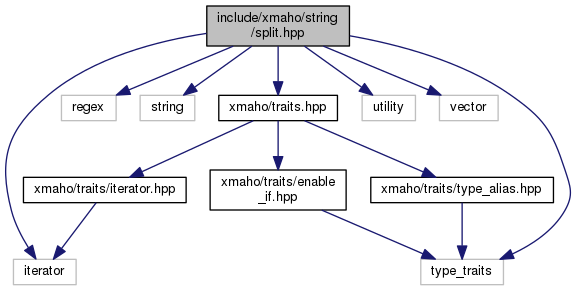
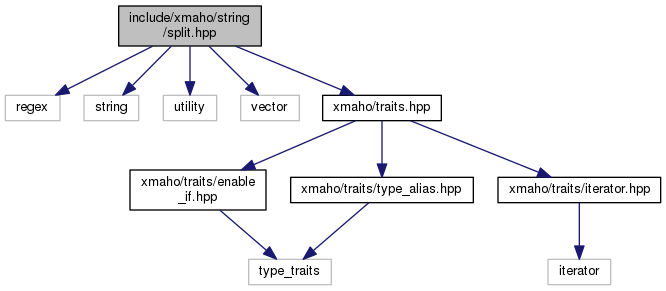
Update doxgen

diff --git a/docs/split_8hpp_source.html b/docs/split_8hpp_source.html
@@ -87,8 +87,8 @@ var searchBox = new SearchBox("searchBox", "search",false,'Search');
 <div class="title">split.hpp</div>  </div>
 </div><!--header-->
 <div class="contents">
-<a href="split_8hpp.html">Go to the documentation of this file.</a><div class="fragment"><div class="line"><a name="l00001"></a><span class="lineno">    1</span>&#160;<span class="preprocessor">#ifndef XMAHO_XMAHO_STRING_SPLIT_H</span></div><div class="line"><a name="l00002"></a><span class="lineno">    2</span>&#160;<span class="preprocessor">#define XMAHO_XMAHO_STRING_SPLIT_H</span></div><div class="line"><a name="l00003"></a><span class="lineno">    3</span>&#160;</div><div class="line"><a name="l00009"></a><span class="lineno">    9</span>&#160;<span class="preprocessor">#include &lt;iterator&gt;</span></div><div class="line"><a name="l00010"></a><span class="lineno">   10</span>&#160;<span class="preprocessor">#include &lt;regex&gt;</span></div><div class="line"><a name="l00011"></a><span class="lineno">   11</span>&#160;<span class="preprocessor">#include &lt;string&gt;</span></div><div class="line"><a name="l00012"></a><span class="lineno">   12</span>&#160;<span class="preprocessor">#include &lt;type_traits&gt;</span></div><div class="line"><a name="l00013"></a><span class="lineno">   13</span>&#160;<span class="preprocessor">#include &lt;utility&gt;</span></div><div class="line"><a name="l00014"></a><span class="lineno">   14</span>&#160;<span class="preprocessor">#include &lt;vector&gt;</span></div><div class="line"><a name="l00015"></a><span class="lineno">   15</span>&#160;</div><div class="line"><a name="l00016"></a><span class="lineno">   16</span>&#160;<span class="preprocessor">#include &quot;<a class="code" href="traits_8hpp.html">xmaho/traits.hpp</a>&quot;</span></div><div class="line"><a name="l00017"></a><span class="lineno">   17</span>&#160;</div><div class="line"><a name="l00018"></a><span class="lineno">   18</span>&#160;<span class="keyword">namespace </span><a class="code" href="namespacexmaho.html">xmaho</a></div><div class="line"><a name="l00019"></a><span class="lineno">   19</span>&#160;{</div><div class="line"><a name="l00020"></a><span class="lineno"><a class="line" href="namespacexmaho_1_1string.html">   20</a></span>&#160;<span class="keyword">namespace </span>string</div><div class="line"><a name="l00021"></a><span class="lineno">   21</span>&#160;{</div><div class="line"><a name="l00022"></a><span class="lineno">   22</span>&#160;</div><div class="line"><a name="l00029"></a><span class="lineno">   29</span>&#160;<span class="keyword">template</span>&lt;<span class="keyword">typename</span> B<span class="keywordtype">id</span>irIter, <span class="keyword">typename</span> Delimiter&gt;</div><div class="line"><a name="l00030"></a><span class="lineno">   30</span>&#160;<span class="keyword">inline</span> std::vector&lt;std::basic_string&lt;traits::remove_const_t&lt;typename std::iterator_traits&lt;BidirIter&gt;::value_type&gt;&gt;&gt;</div><div class="line"><a name="l00031"></a><span class="lineno"><a class="line" href="namespacexmaho_1_1string.html#afb53b8d73cb4abf58db54a818472beb2">   31</a></span>&#160;<a class="code" href="namespacexmaho_1_1string.html#afb53b8d73cb4abf58db54a818472beb2">split</a>(BidirIter&amp;&amp; first, BidirIter&amp;&amp; last, Delimiter&amp;&amp; delimiter)</div><div class="line"><a name="l00032"></a><span class="lineno">   32</span>&#160;{</div><div class="line"><a name="l00033"></a><span class="lineno">   33</span>&#160;  <span class="keyword">using</span> Regex = std::basic_regex&lt;typename std::iterator_traits&lt;BidirIter&gt;::value_type&gt;;</div><div class="line"><a name="l00034"></a><span class="lineno">   34</span>&#160;  <span class="keyword">using</span> TokenIter = std::regex_token_iterator&lt;BidirIter&gt;;</div><div class="line"><a name="l00035"></a><span class="lineno">   35</span>&#160;</div><div class="line"><a name="l00036"></a><span class="lineno">   36</span>&#160;  Regex delim {std::forward&lt;Delimiter&gt;(delimiter)};</div><div class="line"><a name="l00037"></a><span class="lineno">   37</span>&#160;  <span class="keywordflow">return</span> {TokenIter{std::forward&lt;BidirIter&gt;(first), std::forward&lt;BidirIter&gt;(last), delim, -1}, TokenIter{}};</div><div class="line"><a name="l00038"></a><span class="lineno">   38</span>&#160;}</div><div class="line"><a name="l00039"></a><span class="lineno">   39</span>&#160;</div><div class="line"><a name="l00046"></a><span class="lineno">   46</span>&#160;<span class="keyword">template</span>&lt;<span class="keyword">typename</span> String, <span class="keyword">typename</span> Delimiter&gt;</div><div class="line"><a name="l00047"></a><span class="lineno"><a class="line" href="namespacexmaho_1_1string.html#abad9393e4bf4a5ba4192192adbff0618">   47</a></span>&#160;<span class="keyword">inline</span> std::vector&lt;String&gt; <a class="code" href="namespacexmaho_1_1string.html#afb53b8d73cb4abf58db54a818472beb2">split</a>(<span class="keyword">const</span> String&amp; target, Delimiter&amp;&amp; delimiter)</div><div class="line"><a name="l00048"></a><span class="lineno">   48</span>&#160;{</div><div class="line"><a name="l00049"></a><span class="lineno">   49</span>&#160;  <span class="keywordflow">return</span> <a class="code" href="namespacexmaho_1_1string.html#afb53b8d73cb4abf58db54a818472beb2">split</a>(target.cbegin(), target.cend(), std::forward&lt;Delimiter&gt;(delimiter));</div><div class="line"><a name="l00050"></a><span class="lineno">   50</span>&#160;}</div><div class="line"><a name="l00051"></a><span class="lineno">   51</span>&#160;</div><div class="line"><a name="l00058"></a><span class="lineno">   58</span>&#160;<span class="keyword">template</span>&lt;<span class="keyword">typename</span> CharT, <span class="keywordtype">size_t</span> N, <span class="keyword">typename</span> Delimiter&gt;</div><div class="line"><a name="l00059"></a><span class="lineno"><a class="line" href="namespacexmaho_1_1string.html#a26c65b50096256f29b93790659cc6674">   59</a></span>&#160;<span class="keyword">inline</span> std::vector&lt;typename std::basic_string&lt;CharT&gt;&gt; <a class="code" href="namespacexmaho_1_1string.html#afb53b8d73cb4abf58db54a818472beb2">split</a>(<span class="keyword">const</span> CharT (&amp;target)[N], Delimiter&amp;&amp; delimiter)</div><div class="line"><a name="l00060"></a><span class="lineno">   60</span>&#160;{</div><div class="line"><a name="l00061"></a><span class="lineno">   61</span>&#160;  <span class="keywordflow">return</span> <a class="code" href="namespacexmaho_1_1string.html#afb53b8d73cb4abf58db54a818472beb2">split</a>(target, target + N, std::forward&lt;Delimiter&gt;(delimiter));</div><div class="line"><a name="l00062"></a><span class="lineno">   62</span>&#160;}</div><div class="line"><a name="l00063"></a><span class="lineno">   63</span>&#160;</div><div class="line"><a name="l00070"></a><span class="lineno">   70</span>&#160;<span class="keyword">template</span>&lt;<span class="keyword">typename</span> CharT, <span class="keyword">typename</span> Delimiter&gt;</div><div class="line"><a name="l00071"></a><span class="lineno"><a class="line" href="namespacexmaho_1_1string.html#a6355bb4636212ecf41cec4d1f96ed57e">   71</a></span>&#160;<span class="keyword">inline</span> std::vector&lt;typename std::basic_string&lt;CharT&gt;&gt; <a class="code" href="namespacexmaho_1_1string.html#afb53b8d73cb4abf58db54a818472beb2">split</a>(<span class="keyword">const</span> CharT* target, Delimiter&amp;&amp; delimiter)</div><div class="line"><a name="l00072"></a><span class="lineno">   72</span>&#160;{</div><div class="line"><a name="l00073"></a><span class="lineno">   73</span>&#160;  <span class="keywordflow">return</span> <a class="code" href="namespacexmaho_1_1string.html#afb53b8d73cb4abf58db54a818472beb2">split</a>(<span class="keyword">typename</span> std::basic_string&lt;CharT&gt; {target}, std::forward&lt;Delimiter&gt;(delimiter));</div><div class="line"><a name="l00074"></a><span class="lineno">   74</span>&#160;}</div><div class="line"><a name="l00075"></a><span class="lineno">   75</span>&#160;</div><div class="line"><a name="l00076"></a><span class="lineno">   76</span>&#160;}</div><div class="line"><a name="l00077"></a><span class="lineno">   77</span>&#160;}</div><div class="line"><a name="l00078"></a><span class="lineno">   78</span>&#160;</div><div class="line"><a name="l00079"></a><span class="lineno">   79</span>&#160;<span class="preprocessor">#endif</span></div><div class="ttc" id="traits_8hpp_html"><div class="ttname"><a href="traits_8hpp.html">traits.hpp</a></div><div class="ttdoc">This call xmaho::traits libraries. </div></div>
-<div class="ttc" id="namespacexmaho_1_1string_html_afb53b8d73cb4abf58db54a818472beb2"><div class="ttname"><a href="namespacexmaho_1_1string.html#afb53b8d73cb4abf58db54a818472beb2">xmaho::string::split</a></div><div class="ttdeci">std::vector&lt; std::basic_string&lt; traits::remove_const_t&lt; typename std::iterator_traits&lt; BidirIter &gt;::value_type &gt; &gt; &gt; split(BidirIter &amp;&amp;first, BidirIter &amp;&amp;last, Delimiter &amp;&amp;delimiter)</div><div class="ttdoc">split string by regex. </div><div class="ttdef"><b>Definition:</b> split.hpp:31</div></div>
+<a href="split_8hpp.html">Go to the documentation of this file.</a><div class="fragment"><div class="line"><a name="l00001"></a><span class="lineno">    1</span>&#160;<span class="preprocessor">#ifndef XMAHO_XMAHO_STRING_SPLIT_H</span></div><div class="line"><a name="l00002"></a><span class="lineno">    2</span>&#160;<span class="preprocessor">#define XMAHO_XMAHO_STRING_SPLIT_H</span></div><div class="line"><a name="l00003"></a><span class="lineno">    3</span>&#160;</div><div class="line"><a name="l00009"></a><span class="lineno">    9</span>&#160;<span class="preprocessor">#include &lt;regex&gt;</span></div><div class="line"><a name="l00010"></a><span class="lineno">   10</span>&#160;<span class="preprocessor">#include &lt;string&gt;</span></div><div class="line"><a name="l00011"></a><span class="lineno">   11</span>&#160;<span class="preprocessor">#include &lt;utility&gt;</span></div><div class="line"><a name="l00012"></a><span class="lineno">   12</span>&#160;<span class="preprocessor">#include &lt;vector&gt;</span></div><div class="line"><a name="l00013"></a><span class="lineno">   13</span>&#160;</div><div class="line"><a name="l00014"></a><span class="lineno">   14</span>&#160;<span class="preprocessor">#include &quot;<a class="code" href="traits_8hpp.html">xmaho/traits.hpp</a>&quot;</span></div><div class="line"><a name="l00015"></a><span class="lineno">   15</span>&#160;</div><div class="line"><a name="l00016"></a><span class="lineno">   16</span>&#160;<span class="keyword">namespace </span><a class="code" href="namespacexmaho.html">xmaho</a></div><div class="line"><a name="l00017"></a><span class="lineno">   17</span>&#160;{</div><div class="line"><a name="l00018"></a><span class="lineno"><a class="line" href="namespacexmaho_1_1string.html">   18</a></span>&#160;<span class="keyword">namespace </span>string</div><div class="line"><a name="l00019"></a><span class="lineno">   19</span>&#160;{</div><div class="line"><a name="l00020"></a><span class="lineno">   20</span>&#160;</div><div class="line"><a name="l00027"></a><span class="lineno">   27</span>&#160;<span class="keyword">template</span>&lt;<span class="keyword">typename</span> B<span class="keywordtype">id</span>irIter, <span class="keyword">typename</span> Delimiter&gt;</div><div class="line"><a name="l00028"></a><span class="lineno">   28</span>&#160;<span class="keyword">inline</span> std::vector&lt;std::basic_string&lt;traits::remove_const_t&lt;traits::Value_type&lt;BidirIter&gt;&gt;&gt;&gt;</div><div class="line"><a name="l00029"></a><span class="lineno"><a class="line" href="namespacexmaho_1_1string.html#a841fcc4bd72c2c85af7be68feecaefe2">   29</a></span>&#160;<a class="code" href="namespacexmaho_1_1string.html#a841fcc4bd72c2c85af7be68feecaefe2">split</a>(BidirIter&amp;&amp; first, BidirIter&amp;&amp; last, Delimiter&amp;&amp; delimiter)</div><div class="line"><a name="l00030"></a><span class="lineno">   30</span>&#160;{</div><div class="line"><a name="l00031"></a><span class="lineno">   31</span>&#160;  <span class="keyword">using</span> Regex = std::basic_regex&lt;traits::Value_type&lt;BidirIter&gt;&gt;;</div><div class="line"><a name="l00032"></a><span class="lineno">   32</span>&#160;  <span class="keyword">using</span> TokenIter = std::regex_token_iterator&lt;BidirIter&gt;;</div><div class="line"><a name="l00033"></a><span class="lineno">   33</span>&#160;</div><div class="line"><a name="l00034"></a><span class="lineno">   34</span>&#160;  Regex delim {std::forward&lt;Delimiter&gt;(delimiter)};</div><div class="line"><a name="l00035"></a><span class="lineno">   35</span>&#160;  <span class="keywordflow">return</span> {TokenIter{std::forward&lt;BidirIter&gt;(first), std::forward&lt;BidirIter&gt;(last), delim, -1}, TokenIter{}};</div><div class="line"><a name="l00036"></a><span class="lineno">   36</span>&#160;}</div><div class="line"><a name="l00037"></a><span class="lineno">   37</span>&#160;</div><div class="line"><a name="l00044"></a><span class="lineno">   44</span>&#160;<span class="keyword">template</span>&lt;<span class="keyword">typename</span> String, <span class="keyword">typename</span> Delimiter&gt;</div><div class="line"><a name="l00045"></a><span class="lineno"><a class="line" href="namespacexmaho_1_1string.html#abad9393e4bf4a5ba4192192adbff0618">   45</a></span>&#160;<span class="keyword">inline</span> std::vector&lt;String&gt; <a class="code" href="namespacexmaho_1_1string.html#a841fcc4bd72c2c85af7be68feecaefe2">split</a>(<span class="keyword">const</span> String&amp; target, Delimiter&amp;&amp; delimiter)</div><div class="line"><a name="l00046"></a><span class="lineno">   46</span>&#160;{</div><div class="line"><a name="l00047"></a><span class="lineno">   47</span>&#160;  <span class="keywordflow">return</span> <a class="code" href="namespacexmaho_1_1string.html#a841fcc4bd72c2c85af7be68feecaefe2">split</a>(target.cbegin(), target.cend(), std::forward&lt;Delimiter&gt;(delimiter));</div><div class="line"><a name="l00048"></a><span class="lineno">   48</span>&#160;}</div><div class="line"><a name="l00049"></a><span class="lineno">   49</span>&#160;</div><div class="line"><a name="l00056"></a><span class="lineno">   56</span>&#160;<span class="keyword">template</span>&lt;<span class="keyword">typename</span> CharT, <span class="keywordtype">size_t</span> N, <span class="keyword">typename</span> Delimiter&gt;</div><div class="line"><a name="l00057"></a><span class="lineno"><a class="line" href="namespacexmaho_1_1string.html#a26c65b50096256f29b93790659cc6674">   57</a></span>&#160;<span class="keyword">inline</span> std::vector&lt;typename std::basic_string&lt;CharT&gt;&gt; <a class="code" href="namespacexmaho_1_1string.html#a841fcc4bd72c2c85af7be68feecaefe2">split</a>(<span class="keyword">const</span> CharT (&amp;target)[N], Delimiter&amp;&amp; delimiter)</div><div class="line"><a name="l00058"></a><span class="lineno">   58</span>&#160;{</div><div class="line"><a name="l00059"></a><span class="lineno">   59</span>&#160;  <span class="keywordflow">return</span> <a class="code" href="namespacexmaho_1_1string.html#a841fcc4bd72c2c85af7be68feecaefe2">split</a>(target, target + N, std::forward&lt;Delimiter&gt;(delimiter));</div><div class="line"><a name="l00060"></a><span class="lineno">   60</span>&#160;}</div><div class="line"><a name="l00061"></a><span class="lineno">   61</span>&#160;</div><div class="line"><a name="l00068"></a><span class="lineno">   68</span>&#160;<span class="keyword">template</span>&lt;<span class="keyword">typename</span> CharT, <span class="keyword">typename</span> Delimiter&gt;</div><div class="line"><a name="l00069"></a><span class="lineno"><a class="line" href="namespacexmaho_1_1string.html#a6355bb4636212ecf41cec4d1f96ed57e">   69</a></span>&#160;<span class="keyword">inline</span> std::vector&lt;typename std::basic_string&lt;CharT&gt;&gt; <a class="code" href="namespacexmaho_1_1string.html#a841fcc4bd72c2c85af7be68feecaefe2">split</a>(<span class="keyword">const</span> CharT* target, Delimiter&amp;&amp; delimiter)</div><div class="line"><a name="l00070"></a><span class="lineno">   70</span>&#160;{</div><div class="line"><a name="l00071"></a><span class="lineno">   71</span>&#160;  <span class="keywordflow">return</span> <a class="code" href="namespacexmaho_1_1string.html#a841fcc4bd72c2c85af7be68feecaefe2">split</a>(<span class="keyword">typename</span> std::basic_string&lt;CharT&gt;{target}, std::forward&lt;Delimiter&gt;(delimiter));</div><div class="line"><a name="l00072"></a><span class="lineno">   72</span>&#160;}</div><div class="line"><a name="l00073"></a><span class="lineno">   73</span>&#160;</div><div class="line"><a name="l00074"></a><span class="lineno">   74</span>&#160;}</div><div class="line"><a name="l00075"></a><span class="lineno">   75</span>&#160;}</div><div class="line"><a name="l00076"></a><span class="lineno">   76</span>&#160;</div><div class="line"><a name="l00077"></a><span class="lineno">   77</span>&#160;<span class="preprocessor">#endif</span></div><div class="ttc" id="traits_8hpp_html"><div class="ttname"><a href="traits_8hpp.html">traits.hpp</a></div><div class="ttdoc">This call xmaho::traits libraries. </div></div>
+<div class="ttc" id="namespacexmaho_1_1string_html_a841fcc4bd72c2c85af7be68feecaefe2"><div class="ttname"><a href="namespacexmaho_1_1string.html#a841fcc4bd72c2c85af7be68feecaefe2">xmaho::string::split</a></div><div class="ttdeci">std::vector&lt; std::basic_string&lt; traits::remove_const_t&lt; traits::Value_type&lt; BidirIter &gt; &gt; &gt; &gt; split(BidirIter &amp;&amp;first, BidirIter &amp;&amp;last, Delimiter &amp;&amp;delimiter)</div><div class="ttdoc">split string by regex. </div><div class="ttdef"><b>Definition:</b> split.hpp:29</div></div>
 <div class="ttc" id="namespacexmaho_html"><div class="ttname"><a href="namespacexmaho.html">xmaho</a></div><div class="ttdoc">All-inclusive namespace of xmaho library. </div><div class="ttdef"><b>Definition:</b> string_map.hpp:11</div></div>
 </div><!-- fragment --></div><!-- contents -->
 <!-- start footer part -->

diff --git a/docs/split_8hpp.html b/docs/split_8hpp.html
@@ -91,12 +91,10 @@ var searchBox = new SearchBox("searchBox", "search",false,'Search');
 </div><!--header-->
 <div class="contents">
 
-<p>This have definition of <a class="el" href="namespacexmaho_1_1string.html#afb53b8d73cb4abf58db54a818472beb2" title="split string by regex. ">xmaho::string::split</a> functions.  
+<p>This have definition of <a class="el" href="namespacexmaho_1_1string.html#a841fcc4bd72c2c85af7be68feecaefe2" title="split string by regex. ">xmaho::string::split</a> functions.  
 <a href="#details">More...</a></p>
-<div class="textblock"><code>#include &lt;iterator&gt;</code><br />
-<code>#include &lt;regex&gt;</code><br />
+<div class="textblock"><code>#include &lt;regex&gt;</code><br />
 <code>#include &lt;string&gt;</code><br />
-<code>#include &lt;type_traits&gt;</code><br />
 <code>#include &lt;utility&gt;</code><br />
 <code>#include &lt;vector&gt;</code><br />
 <code>#include &quot;<a class="el" href="traits_8hpp_source.html">xmaho/traits.hpp</a>&quot;</code><br />
@@ -105,10 +103,10 @@ Include dependency graph for split.hpp:</div>
 <div class="dyncontent">
 <div class="center"><img src="split_8hpp__incl.png" border="0" usemap="#include_2xmaho_2string_2split_8hpp" alt=""/></div>
 <map name="include_2xmaho_2string_2split_8hpp" id="include_2xmaho_2string_2split_8hpp">
-<area shape="rect" id="node8" href="traits_8hpp.html" title="This call xmaho::traits libraries. " alt="" coords="219,95,337,121"/>
-<area shape="rect" id="node9" href="enable__if_8hpp.html" title="This have definition of xmaho::traits::Enable_if. " alt="" coords="210,169,346,211"/>
-<area shape="rect" id="node10" href="iterator_8hpp.html" title="This have syntactic sugar from iterator_traits. " alt="" coords="23,177,186,203"/>
-<area shape="rect" id="node11" href="type__alias_8hpp.html" title="This have some convertion to **_t from ** member type. " alt="" coords="371,177,553,203"/>
+<area shape="rect" id="node6" href="traits_8hpp.html" title="This call xmaho::traits libraries. " alt="" coords="323,95,441,121"/>
+<area shape="rect" id="node7" href="enable__if_8hpp.html" title="This have definition of xmaho::traits::Enable_if. " alt="" coords="130,169,266,211"/>
+<area shape="rect" id="node9" href="iterator_8hpp.html" title="This have syntactic sugar from iterator_traits. " alt="" coords="498,177,661,203"/>
+<area shape="rect" id="node11" href="type__alias_8hpp.html" title="This have some convertion to **_t from ** member type. " alt="" coords="291,177,473,203"/>
 </map>
 </div>
 </div><div class="textblock"><div class="dynheader">
@@ -134,10 +132,10 @@ Namespaces</h2></td></tr>
 </table><table class="memberdecls">
 <tr class="heading"><td colspan="2"><h2 class="groupheader"><a name="func-members"></a>
 Functions</h2></td></tr>
-<tr class="memitem:afb53b8d73cb4abf58db54a818472beb2"><td class="memTemplParams" colspan="2">template&lt;typename BidirIter , typename Delimiter &gt; </td></tr>
-<tr class="memitem:afb53b8d73cb4abf58db54a818472beb2"><td class="memTemplItemLeft" align="right" valign="top">std::vector&lt; std::basic_string&lt; traits::remove_const_t&lt; typename std::iterator_traits&lt; BidirIter &gt;::value_type &gt; &gt; &gt;&#160;</td><td class="memTemplItemRight" valign="bottom"><a class="el" href="namespacexmaho_1_1string.html#afb53b8d73cb4abf58db54a818472beb2">xmaho::string::split</a> (BidirIter &amp;&amp;first, BidirIter &amp;&amp;last, Delimiter &amp;&amp;delimiter)</td></tr>
-<tr class="memdesc:afb53b8d73cb4abf58db54a818472beb2"><td class="mdescLeft">&#160;</td><td class="mdescRight">split string by regex.  <a href="namespacexmaho_1_1string.html#afb53b8d73cb4abf58db54a818472beb2">More...</a><br /></td></tr>
-<tr class="separator:afb53b8d73cb4abf58db54a818472beb2"><td class="memSeparator" colspan="2">&#160;</td></tr>
+<tr class="memitem:a841fcc4bd72c2c85af7be68feecaefe2"><td class="memTemplParams" colspan="2">template&lt;typename BidirIter , typename Delimiter &gt; </td></tr>
+<tr class="memitem:a841fcc4bd72c2c85af7be68feecaefe2"><td class="memTemplItemLeft" align="right" valign="top">std::vector&lt; std::basic_string&lt; traits::remove_const_t&lt; traits::Value_type&lt; BidirIter &gt; &gt; &gt; &gt;&#160;</td><td class="memTemplItemRight" valign="bottom"><a class="el" href="namespacexmaho_1_1string.html#a841fcc4bd72c2c85af7be68feecaefe2">xmaho::string::split</a> (BidirIter &amp;&amp;first, BidirIter &amp;&amp;last, Delimiter &amp;&amp;delimiter)</td></tr>
+<tr class="memdesc:a841fcc4bd72c2c85af7be68feecaefe2"><td class="mdescLeft">&#160;</td><td class="mdescRight">split string by regex.  <a href="namespacexmaho_1_1string.html#a841fcc4bd72c2c85af7be68feecaefe2">More...</a><br /></td></tr>
+<tr class="separator:a841fcc4bd72c2c85af7be68feecaefe2"><td class="memSeparator" colspan="2">&#160;</td></tr>
 <tr class="memitem:abad9393e4bf4a5ba4192192adbff0618"><td class="memTemplParams" colspan="2">template&lt;typename String , typename Delimiter &gt; </td></tr>
 <tr class="memitem:abad9393e4bf4a5ba4192192adbff0618"><td class="memTemplItemLeft" align="right" valign="top">std::vector&lt; String &gt;&#160;</td><td class="memTemplItemRight" valign="bottom"><a class="el" href="namespacexmaho_1_1string.html#abad9393e4bf4a5ba4192192adbff0618">xmaho::string::split</a> (const String &amp;target, Delimiter &amp;&amp;delimiter)</td></tr>
 <tr class="memdesc:abad9393e4bf4a5ba4192192adbff0618"><td class="mdescLeft">&#160;</td><td class="mdescRight">split string by regex.  <a href="namespacexmaho_1_1string.html#abad9393e4bf4a5ba4192192adbff0618">More...</a><br /></td></tr>
@@ -152,7 +150,7 @@ Functions</h2></td></tr>
 <tr class="separator:a6355bb4636212ecf41cec4d1f96ed57e"><td class="memSeparator" colspan="2">&#160;</td></tr>
 </table>
 <a name="details" id="details"></a><h2 class="groupheader">Detailed Description</h2>
-<div class="textblock"><p>This have definition of <a class="el" href="namespacexmaho_1_1string.html#afb53b8d73cb4abf58db54a818472beb2" title="split string by regex. ">xmaho::string::split</a> functions. </p>
+<div class="textblock"><p>This have definition of <a class="el" href="namespacexmaho_1_1string.html#a841fcc4bd72c2c85af7be68feecaefe2" title="split string by regex. ">xmaho::string::split</a> functions. </p>
 </div></div><!-- contents -->
 <!-- start footer part -->
 <hr class="footer"/><address class="footer"><small>

diff --git a/docs/namespacexmaho_1_1string.html b/docs/namespacexmaho_1_1string.html
@@ -96,10 +96,10 @@ var searchBox = new SearchBox("searchBox", "search",false,'Search');
 <table class="memberdecls">
 <tr class="heading"><td colspan="2"><h2 class="groupheader"><a name="func-members"></a>
 Functions</h2></td></tr>
-<tr class="memitem:afb53b8d73cb4abf58db54a818472beb2"><td class="memTemplParams" colspan="2">template&lt;typename BidirIter , typename Delimiter &gt; </td></tr>
-<tr class="memitem:afb53b8d73cb4abf58db54a818472beb2"><td class="memTemplItemLeft" align="right" valign="top">std::vector&lt; std::basic_string&lt; <a class="el" href="namespacexmaho_1_1traits.html#a6457ae36f2cc38540d68fe4c82a2b627">traits::remove_const_t</a>&lt; typename std::iterator_traits&lt; BidirIter &gt;::value_type &gt; &gt; &gt;&#160;</td><td class="memTemplItemRight" valign="bottom"><a class="el" href="namespacexmaho_1_1string.html#afb53b8d73cb4abf58db54a818472beb2">split</a> (BidirIter &amp;&amp;first, BidirIter &amp;&amp;last, Delimiter &amp;&amp;delimiter)</td></tr>
-<tr class="memdesc:afb53b8d73cb4abf58db54a818472beb2"><td class="mdescLeft">&#160;</td><td class="mdescRight">split string by regex.  <a href="#afb53b8d73cb4abf58db54a818472beb2">More...</a><br /></td></tr>
-<tr class="separator:afb53b8d73cb4abf58db54a818472beb2"><td class="memSeparator" colspan="2">&#160;</td></tr>
+<tr class="memitem:a841fcc4bd72c2c85af7be68feecaefe2"><td class="memTemplParams" colspan="2">template&lt;typename BidirIter , typename Delimiter &gt; </td></tr>
+<tr class="memitem:a841fcc4bd72c2c85af7be68feecaefe2"><td class="memTemplItemLeft" align="right" valign="top">std::vector&lt; std::basic_string&lt; <a class="el" href="namespacexmaho_1_1traits.html#a6457ae36f2cc38540d68fe4c82a2b627">traits::remove_const_t</a>&lt; <a class="el" href="namespacexmaho_1_1traits.html#adf495d9ccb471ac2062460e08be2a9f5">traits::Value_type</a>&lt; BidirIter &gt; &gt; &gt; &gt;&#160;</td><td class="memTemplItemRight" valign="bottom"><a class="el" href="namespacexmaho_1_1string.html#a841fcc4bd72c2c85af7be68feecaefe2">split</a> (BidirIter &amp;&amp;first, BidirIter &amp;&amp;last, Delimiter &amp;&amp;delimiter)</td></tr>
+<tr class="memdesc:a841fcc4bd72c2c85af7be68feecaefe2"><td class="mdescLeft">&#160;</td><td class="mdescRight">split string by regex.  <a href="#a841fcc4bd72c2c85af7be68feecaefe2">More...</a><br /></td></tr>
+<tr class="separator:a841fcc4bd72c2c85af7be68feecaefe2"><td class="memSeparator" colspan="2">&#160;</td></tr>
 <tr class="memitem:abad9393e4bf4a5ba4192192adbff0618"><td class="memTemplParams" colspan="2">template&lt;typename String , typename Delimiter &gt; </td></tr>
 <tr class="memitem:abad9393e4bf4a5ba4192192adbff0618"><td class="memTemplItemLeft" align="right" valign="top">std::vector&lt; String &gt;&#160;</td><td class="memTemplItemRight" valign="bottom"><a class="el" href="namespacexmaho_1_1string.html#abad9393e4bf4a5ba4192192adbff0618">split</a> (const String &amp;target, Delimiter &amp;&amp;delimiter)</td></tr>
 <tr class="memdesc:abad9393e4bf4a5ba4192192adbff0618"><td class="mdescLeft">&#160;</td><td class="mdescRight">split string by regex.  <a href="#abad9393e4bf4a5ba4192192adbff0618">More...</a><br /></td></tr>
@@ -116,7 +116,7 @@ Functions</h2></td></tr>
 <a name="details" id="details"></a><h2 class="groupheader">Detailed Description</h2>
 <div class="textblock"><p>The namespace for <a class="el" href="namespacexmaho_1_1string.html" title="The namespace for xmaho::string library. ">xmaho::string</a> library. </p>
 </div><h2 class="groupheader">Function Documentation</h2>
-<a class="anchor" id="afb53b8d73cb4abf58db54a818472beb2"></a>
+<a class="anchor" id="a841fcc4bd72c2c85af7be68feecaefe2"></a>
 <div class="memitem">
 <div class="memproto">
 <div class="memtemplate">
@@ -126,7 +126,7 @@ template&lt;typename BidirIter , typename Delimiter &gt; </div>
   <td class="mlabels-left">
       <table class="memname">
         <tr>
-          <td class="memname">std::vector&lt;std::basic_string&lt;<a class="el" href="namespacexmaho_1_1traits.html#a6457ae36f2cc38540d68fe4c82a2b627">traits::remove_const_t</a>&lt;typename std::iterator_traits&lt;BidirIter&gt;::value_type&gt; &gt; &gt; xmaho::string::split </td>
+          <td class="memname">std::vector&lt;std::basic_string&lt;<a class="el" href="namespacexmaho_1_1traits.html#a6457ae36f2cc38540d68fe4c82a2b627">traits::remove_const_t</a>&lt;<a class="el" href="namespacexmaho_1_1traits.html#adf495d9ccb471ac2062460e08be2a9f5">traits::Value_type</a>&lt;BidirIter&gt; &gt; &gt; &gt; xmaho::string::split </td>
           <td>(</td>
           <td class="paramtype">BidirIter &amp;&amp;&#160;</td>
           <td class="paramname"><em>first</em>, </td>

diff --git a/docs/files.html b/docs/files.html
@@ -90,7 +90,7 @@ var searchBox = new SearchBox("searchBox", "search",false,'Search');
 <tr id="row_0_0_0_" class="even"><td class="entry"><span style="width:32px;display:inline-block;">&#160;</span><span id="arr_0_0_0_" class="arrow" onclick="toggleFolder('0_0_0_')">&#9660;</span><span id="img_0_0_0_" class="iconfopen" onclick="toggleFolder('0_0_0_')">&#160;</span><a class="el" href="dir_c113f6aa93a9c6b224c9017d4e052c9c.html" target="_self">container</a></td><td class="desc">This have <a class="el" href="namespacexmaho_1_1container.html" title="The namespace for xmaho::container library. ">xmaho::container</a> librarys </td></tr>
 <tr id="row_0_0_0_0_"><td class="entry"><span style="width:64px;display:inline-block;">&#160;</span><a href="string__map_8hpp_source.html"><span class="icondoc"></span></a><a class="el" href="string__map_8hpp.html" target="_self">string_map.hpp</a></td><td class="desc">This have definition of <a class="el" href="namespacexmaho_1_1container.html#abad496b0c03dc86fe977d5e1fd5625b6" title="Speedy string map. ">xmaho::container::string_map</a> </td></tr>
 <tr id="row_0_0_1_" class="even"><td class="entry"><span style="width:32px;display:inline-block;">&#160;</span><span id="arr_0_0_1_" class="arrow" onclick="toggleFolder('0_0_1_')">&#9660;</span><span id="img_0_0_1_" class="iconfopen" onclick="toggleFolder('0_0_1_')">&#160;</span><a class="el" href="dir_b8164315e8591cefa4494dc6269ff852.html" target="_self">string</a></td><td class="desc">This have <a class="el" href="namespacexmaho_1_1string.html" title="The namespace for xmaho::string library. ">xmaho::string</a> librarys </td></tr>
-<tr id="row_0_0_1_0_"><td class="entry"><span style="width:64px;display:inline-block;">&#160;</span><a href="split_8hpp_source.html"><span class="icondoc"></span></a><a class="el" href="split_8hpp.html" target="_self">split.hpp</a></td><td class="desc">This have definition of <a class="el" href="namespacexmaho_1_1string.html#afb53b8d73cb4abf58db54a818472beb2" title="split string by regex. ">xmaho::string::split</a> functions </td></tr>
+<tr id="row_0_0_1_0_"><td class="entry"><span style="width:64px;display:inline-block;">&#160;</span><a href="split_8hpp_source.html"><span class="icondoc"></span></a><a class="el" href="split_8hpp.html" target="_self">split.hpp</a></td><td class="desc">This have definition of <a class="el" href="namespacexmaho_1_1string.html#a841fcc4bd72c2c85af7be68feecaefe2" title="split string by regex. ">xmaho::string::split</a> functions </td></tr>
 <tr id="row_0_0_2_" class="even"><td class="entry"><span style="width:32px;display:inline-block;">&#160;</span><span id="arr_0_0_2_" class="arrow" onclick="toggleFolder('0_0_2_')">&#9660;</span><span id="img_0_0_2_" class="iconfopen" onclick="toggleFolder('0_0_2_')">&#160;</span><a class="el" href="dir_3086be5ea0bff3d8a032251f40ceeeea.html" target="_self">traits</a></td><td class="desc">This have <a class="el" href="namespacexmaho_1_1traits.html" title="The namespace for xmaho::traits library. ">xmaho::traits</a> librarys </td></tr>
 <tr id="row_0_0_2_0_"><td class="entry"><span style="width:64px;display:inline-block;">&#160;</span><a href="enable__if_8hpp_source.html"><span class="icondoc"></span></a><a class="el" href="enable__if_8hpp.html" target="_self">enable_if.hpp</a></td><td class="desc">This have definition of <a class="el" href="namespacexmaho_1_1traits.html#a4f01a2aac3cb189cd882de3bf97ac548" title="The syntactic suger of std::enable_if::type. ">xmaho::traits::Enable_if</a> </td></tr>
 <tr id="row_0_0_2_1_" class="even"><td class="entry"><span style="width:64px;display:inline-block;">&#160;</span><a href="iterator_8hpp_source.html"><span class="icondoc"></span></a><a class="el" href="iterator_8hpp.html" target="_self">iterator.hpp</a></td><td class="desc">This have syntactic sugar from iterator_traits </td></tr>

diff --git a/docs/xmaho_8hpp.html b/docs/xmaho_8hpp.html
@@ -100,14 +100,14 @@ Include dependency graph for xmaho.hpp:</div>
 <div class="dyncontent">
 <div class="center"><img src="xmaho_8hpp__incl.png" border="0" usemap="#include_2xmaho_2xmaho_8hpp" alt=""/></div>
 <map name="include_2xmaho_2xmaho_8hpp" id="include_2xmaho_2xmaho_8hpp">
-<area shape="rect" id="node2" href="container_8hpp.html" title="This call xmaho::container libraries. " alt="" coords="157,80,300,107"/>
-<area shape="rect" id="node5" href="string_8hpp.html" title="This call xmaho::string libraries. " alt="" coords="334,80,457,107"/>
-<area shape="rect" id="node13" href="traits_8hpp.html" title="This call xmaho::traits libraries. " alt="" coords="583,244,701,271"/>
-<area shape="rect" id="node3" href="string__map_8hpp.html" title="This have definition of xmaho::container::string_map. " alt="" coords="62,155,217,196"/>
-<area shape="rect" id="node6" href="split_8hpp.html" title="This have definition of xmaho::string::split functions. " alt="" coords="320,162,471,189"/>
-<area shape="rect" id="node14" href="enable__if_8hpp.html" title="This have definition of xmaho::traits::Enable_if. " alt="" coords="955,319,1091,360"/>
-<area shape="rect" id="node15" href="iterator_8hpp.html" title="This have syntactic sugar from iterator_traits. " alt="" coords="561,326,723,353"/>
-<area shape="rect" id="node16" href="type__alias_8hpp.html" title="This have some convertion to **_t from ** member type. " alt="" coords="748,326,931,353"/>
+<area shape="rect" id="node2" href="container_8hpp.html" title="This call xmaho::container libraries. " alt="" coords="43,80,185,107"/>
+<area shape="rect" id="node5" href="string_8hpp.html" title="This call xmaho::string libraries. " alt="" coords="263,80,386,107"/>
+<area shape="rect" id="node11" href="traits_8hpp.html" title="This call xmaho::traits libraries. " alt="" coords="457,244,576,271"/>
+<area shape="rect" id="node3" href="string__map_8hpp.html" title="This have definition of xmaho::container::string_map. " alt="" coords="10,155,165,196"/>
+<area shape="rect" id="node6" href="split_8hpp.html" title="This have definition of xmaho::string::split functions. " alt="" coords="249,162,400,189"/>
+<area shape="rect" id="node12" href="enable__if_8hpp.html" title="This have definition of xmaho::traits::Enable_if. " alt="" coords="265,319,401,360"/>
+<area shape="rect" id="node14" href="iterator_8hpp.html" title="This have syntactic sugar from iterator_traits. " alt="" coords="633,326,795,353"/>
+<area shape="rect" id="node16" href="type__alias_8hpp.html" title="This have some convertion to **_t from ** member type. " alt="" coords="425,326,608,353"/>
 </map>
 </div>
 </div>

diff --git a/docs/string_8hpp.html b/docs/string_8hpp.html
@@ -98,11 +98,11 @@ Include dependency graph for string.hpp:</div>
 <div class="dyncontent">
 <div class="center"><img src="string_8hpp__incl.png" border="0" usemap="#include_2xmaho_2string_8hpp" alt=""/></div>
 <map name="include_2xmaho_2string_8hpp" id="include_2xmaho_2string_8hpp">
-<area shape="rect" id="node2" href="split_8hpp.html" title="This have definition of xmaho::string::split functions. " alt="" coords="203,80,354,107"/>
-<area shape="rect" id="node9" href="traits_8hpp.html" title="This call xmaho::traits libraries. " alt="" coords="219,155,338,181"/>
-<area shape="rect" id="node10" href="enable__if_8hpp.html" title="This have definition of xmaho::traits::Enable_if. " alt="" coords="210,229,346,271"/>
-<area shape="rect" id="node11" href="iterator_8hpp.html" title="This have syntactic sugar from iterator_traits. " alt="" coords="24,237,186,263"/>
-<area shape="rect" id="node12" href="type__alias_8hpp.html" title="This have some convertion to **_t from ** member type. " alt="" coords="371,237,554,263"/>
+<area shape="rect" id="node2" href="split_8hpp.html" title="This have definition of xmaho::string::split functions. " alt="" coords="115,80,265,107"/>
+<area shape="rect" id="node7" href="traits_8hpp.html" title="This call xmaho::traits libraries. " alt="" coords="323,155,441,181"/>
+<area shape="rect" id="node8" href="enable__if_8hpp.html" title="This have definition of xmaho::traits::Enable_if. " alt="" coords="130,229,266,271"/>
+<area shape="rect" id="node10" href="iterator_8hpp.html" title="This have syntactic sugar from iterator_traits. " alt="" coords="498,237,661,263"/>
+<area shape="rect" id="node12" href="type__alias_8hpp.html" title="This have some convertion to **_t from ** member type. " alt="" coords="291,237,473,263"/>
 </map>
 </div>
 </div><div class="textblock"><div class="dynheader">

diff --git a/docs/search/all_4.js b/docs/search/all_4.js
@@ -1,6 +1,6 @@
 var searchData=
 [
-  ['split',['split',['../namespacexmaho_1_1string.html#afb53b8d73cb4abf58db54a818472beb2',1,'xmaho::string::split(BidirIter &amp;&amp;first, BidirIter &amp;&amp;last, Delimiter &amp;&amp;delimiter)'],['../namespacexmaho_1_1string.html#abad9393e4bf4a5ba4192192adbff0618',1,'xmaho::string::split(const String &amp;target, Delimiter &amp;&amp;delimiter)'],['../namespacexmaho_1_1string.html#a26c65b50096256f29b93790659cc6674',1,'xmaho::string::split(const CharT(&amp;target)[N], Delimiter &amp;&amp;delimiter)'],['../namespacexmaho_1_1string.html#a6355bb4636212ecf41cec4d1f96ed57e',1,'xmaho::string::split(const CharT *target, Delimiter &amp;&amp;delimiter)']]],
+  ['split',['split',['../namespacexmaho_1_1string.html#a841fcc4bd72c2c85af7be68feecaefe2',1,'xmaho::string::split(BidirIter &amp;&amp;first, BidirIter &amp;&amp;last, Delimiter &amp;&amp;delimiter)'],['../namespacexmaho_1_1string.html#abad9393e4bf4a5ba4192192adbff0618',1,'xmaho::string::split(const String &amp;target, Delimiter &amp;&amp;delimiter)'],['../namespacexmaho_1_1string.html#a26c65b50096256f29b93790659cc6674',1,'xmaho::string::split(const CharT(&amp;target)[N], Delimiter &amp;&amp;delimiter)'],['../namespacexmaho_1_1string.html#a6355bb4636212ecf41cec4d1f96ed57e',1,'xmaho::string::split(const CharT *target, Delimiter &amp;&amp;delimiter)']]],
   ['split_2ehpp',['split.hpp',['../split_8hpp.html',1,'']]],
   ['string_2ehpp',['string.hpp',['../string_8hpp.html',1,'']]],
   ['string_5fmap',['string_map',['../namespacexmaho_1_1container.html#abad496b0c03dc86fe977d5e1fd5625b6',1,'xmaho::container']]],

diff --git a/docs/search/functions_0.js b/docs/search/functions_0.js
@@ -1,4 +1,4 @@
 var searchData=
 [
-  ['split',['split',['../namespacexmaho_1_1string.html#afb53b8d73cb4abf58db54a818472beb2',1,'xmaho::string::split(BidirIter &amp;&amp;first, BidirIter &amp;&amp;last, Delimiter &amp;&amp;delimiter)'],['../namespacexmaho_1_1string.html#abad9393e4bf4a5ba4192192adbff0618',1,'xmaho::string::split(const String &amp;target, Delimiter &amp;&amp;delimiter)'],['../namespacexmaho_1_1string.html#a26c65b50096256f29b93790659cc6674',1,'xmaho::string::split(const CharT(&amp;target)[N], Delimiter &amp;&amp;delimiter)'],['../namespacexmaho_1_1string.html#a6355bb4636212ecf41cec4d1f96ed57e',1,'xmaho::string::split(const CharT *target, Delimiter &amp;&amp;delimiter)']]]
+  ['split',['split',['../namespacexmaho_1_1string.html#a841fcc4bd72c2c85af7be68feecaefe2',1,'xmaho::string::split(BidirIter &amp;&amp;first, BidirIter &amp;&amp;last, Delimiter &amp;&amp;delimiter)'],['../namespacexmaho_1_1string.html#abad9393e4bf4a5ba4192192adbff0618',1,'xmaho::string::split(const String &amp;target, Delimiter &amp;&amp;delimiter)'],['../namespacexmaho_1_1string.html#a26c65b50096256f29b93790659cc6674',1,'xmaho::string::split(const CharT(&amp;target)[N], Delimiter &amp;&amp;delimiter)'],['../namespacexmaho_1_1string.html#a6355bb4636212ecf41cec4d1f96ed57e',1,'xmaho::string::split(const CharT *target, Delimiter &amp;&amp;delimiter)']]]
 ];

diff --git a/docs/dir_b8164315e8591cefa4494dc6269ff852.html b/docs/dir_b8164315e8591cefa4494dc6269ff852.html
@@ -104,7 +104,7 @@ Directory dependency graph for string:</div>
 <tr class="heading"><td colspan="2"><h2 class="groupheader"><a name="files"></a>
 Files</h2></td></tr>
 <tr class="memitem:split_8hpp"><td class="memItemLeft" align="right" valign="top">file &#160;</td><td class="memItemRight" valign="bottom"><a class="el" href="split_8hpp.html">split.hpp</a> <a href="split_8hpp_source.html">[code]</a></td></tr>
-<tr class="memdesc:split_8hpp"><td class="mdescLeft">&#160;</td><td class="mdescRight">This have definition of <a class="el" href="namespacexmaho_1_1string.html#afb53b8d73cb4abf58db54a818472beb2" title="split string by regex. ">xmaho::string::split</a> functions. <br /></td></tr>
+<tr class="memdesc:split_8hpp"><td class="mdescLeft">&#160;</td><td class="mdescRight">This have definition of <a class="el" href="namespacexmaho_1_1string.html#a841fcc4bd72c2c85af7be68feecaefe2" title="split string by regex. ">xmaho::string::split</a> functions. <br /></td></tr>
 <tr class="separator:"><td class="memSeparator" colspan="2">&#160;</td></tr>
 </table>
 <a name="details" id="details"></a><h2 class="groupheader">Detailed Description</h2>

diff --git a/docs/namespacemembers.html b/docs/namespacemembers.html
@@ -95,7 +95,7 @@ var searchBox = new SearchBox("searchBox", "search",false,'Search');
 : <a class="el" href="namespacexmaho_1_1traits.html#a6457ae36f2cc38540d68fe4c82a2b627">xmaho::traits</a>
 </li>
 <li>split()
-: <a class="el" href="namespacexmaho_1_1string.html#afb53b8d73cb4abf58db54a818472beb2">xmaho::string</a>
+: <a class="el" href="namespacexmaho_1_1string.html#a841fcc4bd72c2c85af7be68feecaefe2">xmaho::string</a>
 </li>
 <li>string_map
 : <a class="el" href="namespacexmaho_1_1container.html#abad496b0c03dc86fe977d5e1fd5625b6">xmaho::container</a>

diff --git a/docs/type__alias_8hpp.html b/docs/type__alias_8hpp.html
@@ -98,8 +98,6 @@ var searchBox = new SearchBox("searchBox", "search",false,'Search');
 Include dependency graph for type_alias.hpp:</div>
 <div class="dyncontent">
 <div class="center"><img src="type__alias_8hpp__incl.png" border="0" usemap="#include_2xmaho_2traits_2type__alias_8hpp" alt=""/></div>
-<map name="include_2xmaho_2traits_2type__alias_8hpp" id="include_2xmaho_2traits_2type__alias_8hpp">
-</map>
 </div>
 </div><div class="textblock"><div class="dynheader">
 This graph shows which files directly or indirectly include this file:</div>

diff --git a/docs/iterator_8hpp.html b/docs/iterator_8hpp.html
@@ -98,8 +98,6 @@ var searchBox = new SearchBox("searchBox", "search",false,'Search');
 Include dependency graph for iterator.hpp:</div>
 <div class="dyncontent">
 <div class="center"><img src="iterator_8hpp__incl.png" border="0" usemap="#include_2xmaho_2traits_2iterator_8hpp" alt=""/></div>
-<map name="include_2xmaho_2traits_2iterator_8hpp" id="include_2xmaho_2traits_2iterator_8hpp">
-</map>
 </div>
 </div><div class="textblock"><div class="dynheader">
 This graph shows which files directly or indirectly include this file:</div>
